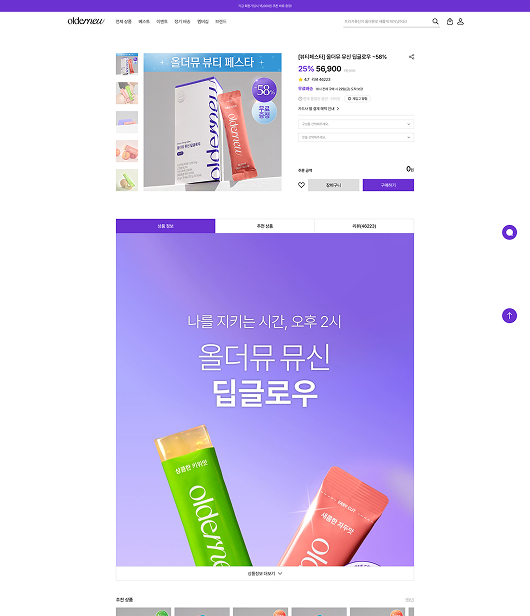
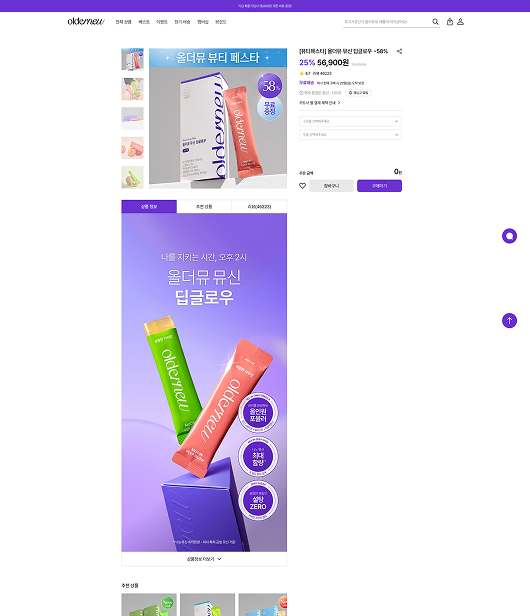
img수정

diff --git a/styles/index.css b/styles/index.css
@@ -85,7 +85,7 @@
 #wrap .portfolio_swiper .swiper-wrapper .contents_index .contents_list li .project_title .project_tag li:last-child {margin: 0;}
 
 /* -------------------------------------------------------------------- 4. 올더뮤 */
-#wrap .portfolio_swiper .swiper-wrapper .oldernew {background-color: darkorange;}
+#wrap .portfolio_swiper .swiper-wrapper .oldernew {position: relative;}
 #wrap .portfolio_swiper .swiper-wrapper .oldernew .title {}
 #wrap .portfolio_swiper .swiper-wrapper .oldernew .title h1 {}
 #wrap .portfolio_swiper .swiper-wrapper .oldernew .contents {display: flex; align-items: flex-end; gap: 51px; margin-bottom: 60px;}
@@ -107,9 +107,12 @@
 #wrap .portfolio_swiper .swiper-wrapper .oldernew .contents .preview .prototype_detail p {margin-bottom: 8px;}
 #wrap .portfolio_swiper .swiper-wrapper .oldernew .contents .preview .prototype_detail img {}
 /* --------------------------- 스크롤 힌트  */
-#wrap .portfolio_swiper .swiper-wrapper .oldernew .scroll_hint {display: flex; flex-flow: column nowrap; width: max-content; margin: 0 auto;}
-#wrap .portfolio_swiper .swiper-wrapper .oldernew .scroll_hint img {width: 28px;}
-#wrap .portfolio_swiper .swiper-wrapper .oldernew .scroll_hint img.mouse {margin-bottom: 12px;}
+#wrap .portfolio_swiper .swiper-wrapper .oldernew .scroll_hint {
+    display: flex; flex-flow: column nowrap; width: max-content; margin: 0 auto;
+    position: absolute; bottom: 20px; left: 50%; transform: translateX(-50%);
+}
+#wrap .portfolio_swiper .swiper-wrapper .oldernew .scroll_hint img {width: 22px;}
+#wrap .portfolio_swiper .swiper-wrapper .oldernew .scroll_hint img.mouse {margin-bottom: 10px;}
 #wrap .portfolio_swiper .swiper-wrapper .oldernew .scroll_hint img.down {}
 
 /* -------------------------------------------------------------------- 5. 올더뮤 목업 */

diff --git a/styles/common.css b/styles/common.css
@@ -1,7 +1,7 @@
 /* 공통 디자인 */
 
 /* ------------------------ 슬라이드 공통 크기 */
-#wrap .portfolio_swiper .swiper-wrapper .swiper-slide {padding: 60px 80px; /* width: 1760px; margin: 0 auto; */}
+#wrap .portfolio_swiper .swiper-wrapper .swiper-slide {padding: 80px 80px; /* width: 1760px; margin: 0 auto; */}
 
 /* -------------------- 제목 + 제목 옆 라인 디자인 */
 #wrap .portfolio_swiper .swiper-wrapper .swiper-slide .title {display: flex; gap: 40px; align-items: center; margin-bottom: 40px;}
